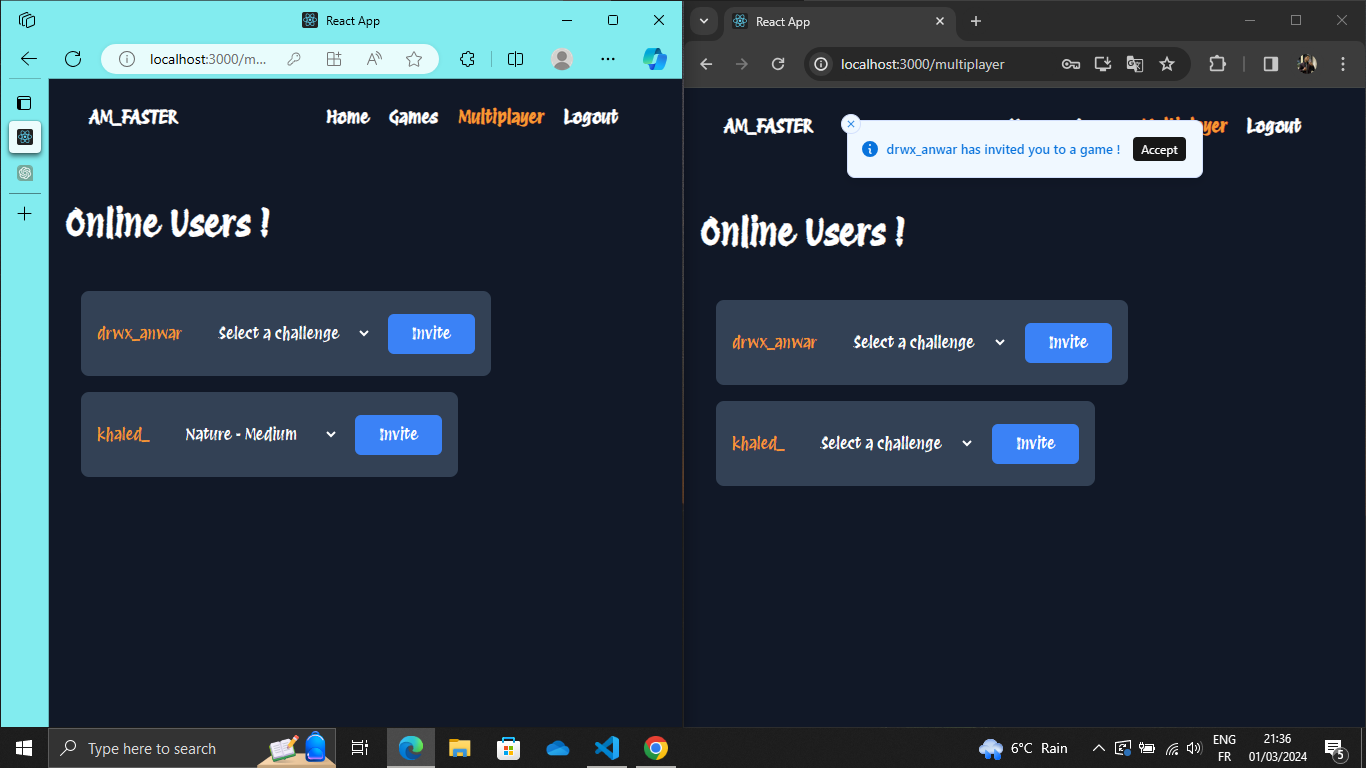
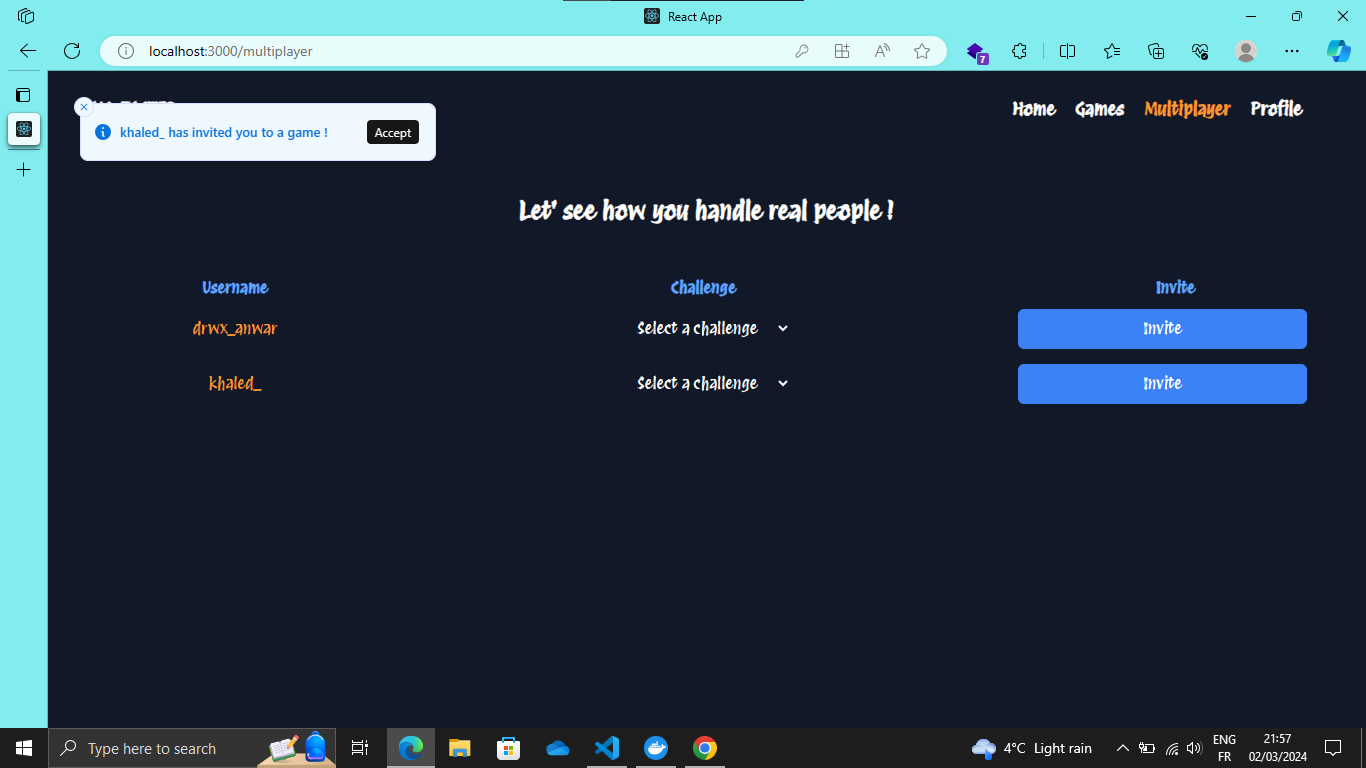
DONE : fixed ready button bug + react app image.

diff --git a/backend/index.js b/backend/index.js
@@ -108,25 +108,34 @@ io.on("connection", (socket) => {
 socket.on("userReady", (gameInfo) => {
   const { username, roomId } = gameInfo;
   const readyUserSocket = socketUsers[username];
-  if (readyUserSocket) { // Check if socket exists for the user
-      console.log("THIS USER IS READY",username)
-      io.to(roomId).emit("onUserIsReady", username); // Emit event 
-      roomReadyStatus[roomId] = roomReadyStatus[roomId] || {}; // Initialize room readiness status if not already initialized
-      roomReadyStatus[roomId][username] = true; // Mark user as ready in the room
-      console.log(`ROOM ${roomId} Ready Users are `,roomReadyStatus[roomId])
-      // Check if both users in the room are ready
-      const usersInRoom = Object.keys(roomReadyStatus[roomId]);
-      const allUsersReady = usersInRoom.every(user => roomReadyStatus[roomId][user]);
-      console.log("ALL USERS ARE READY",allUsersReady)
-      //console.log("THIS USER IS READY",username)
-      if (allUsersReady) {
-          // Emit event to start the game once both users are ready
-          io.in(roomId).emit("startGame");
-          console.log(`STARTING GAME IN THE ROOM ${roomId}`)
-      }
+
+  if (readyUserSocket) {
+    console.log("THIS USER IS READY", username);
+    io.to(roomId).emit("onUserIsReady", username);
+
+    // Initializing room readiness status if not already initialized
+    roomReadyStatus[roomId] = roomReadyStatus[roomId] || {};
+
+    // Marking user as ready in the room
+    roomReadyStatus[roomId][username] = true;
+
+    // Checking if all users in the room are ready
+    const usersInRoom = Object.keys(roomReadyStatus[roomId]);
+    const allUsersReady = usersInRoom.every(user => roomReadyStatus[roomId][user]);
+
+    console.log("ALL USERS ARE READY", allUsersReady);
+
+    if (allUsersReady) {
+      // Emitting event to start the game once all users are ready
+      io.in(roomId).emit("startGame");
+      console.log(`STARTING GAME IN THE ROOM ${roomId}`);
+      
+      // Resetting room readiness status for the next game
+      roomReadyStatus[roomId] = {};
+    }
   } else {
-      console.log(`Socket not found for user: ${username}`);
-      io.to(socket.id).emit("user_not_found")
+    console.log(`Socket not found for user: ${username}`);
+    io.to(socket.id).emit("user_not_found");
   }
 });
 socket.on("gameEnded", async ({challengeId,username, roomId, finishedIn, mistakes }) => {
@@ -158,16 +167,18 @@ socket.on("gameEnded", async ({challengeId,username, roomId, finishedIn, mistake
       if (score1 < score2) {
           winner = user1;
           console.log(`Winner is ${winner} with a score of ${score1} in ${time1}s`);
-          io.in(roomId).emit("winnerAnnouncement", { winner, mistakes: mistakes1, time: time1 });
+          io.to(socketUsers[winner]).emit("winnerAnnouncement", { winner, mistakes: mistakes1, time: time1 });
+          io.to(socketUsers[user2]).emit("Lost", { winner, mistakes: mistakes1, time: time1 });
       } else if (score2 < score1) {
           winner = user2;
           console.log(`Winner is ${winner} with a score of ${score2} in ${time2}s`);
-          io.in(roomId).emit("winnerAnnouncement", { winner, mistakes: mistakes2, time: time2 });
+          io.in(socketUsers[winner]).emit("winnerAnnouncement", { winner, mistakes: mistakes2, time: time2 });
+          io.to(socketUsers[user1]).emit("Lost", { winner, mistakes: mistakes2, time: time2 });
       } else {
           // If scores are equal, consider it as a tie
           winner = null;
           console.log("It's a tie!");
-          io.in(roomId).emit("Tie", {mistakes: mistakes1, time: time1 });
+          io.in(roomId).emit("Tie", {score1});
       }
       //db save game********************
       // try {

diff --git a/frontend/src/pages/Multiplayer.jsx b/frontend/src/pages/Multiplayer.jsx
@@ -36,10 +36,10 @@ function Multiplayer() {
      socket.on("goToGame", (gameInfos)=>{
        //console.log("GO TO GAME INFOS :",gameInfos)
         toast.message(`Joined room : ${gameInfos.roomId}`)
-        //storing usernames
+        //TODO : storing usernames instead of id... for game save later
         handleCreateRoom(gameInfos.senderId,gameInfos.recipientId)
         // go to game page
-        navigate(`room/${gameInfos.roomId}/${gameInfos.challengeId}`)
+        navigate(`/multiplayer/room/${gameInfos.roomId}/${gameInfos.challengeId}`)
      })
      socket.on("user_not_found",()=>{
       toast.info("The user you invited is having network Errors")
@@ -47,11 +47,25 @@ function Multiplayer() {
   }, [socket]);
   
   return <div className="w-full flex items-start justify-start flex-wrap pt-14">
-    <h1 className='text-4xl text-white font-extrabold self-center w-full p-4'>Online Users !</h1>
-    {isPending ? <div className="w-full bg-slate-400 animate-pulse"></div> : <div className="w-full p-8 flex items-start justify-start gap-4 flex-wrap">
-        {online_users ? online_users.map((user,i)=>{
+    <h1 className='text-2xl text-center text-white font-extrabold self-center w-full p-4'>Let&apos; see how you handle real people !</h1>
+    {isPending ? 
+    <div className="w-full bg-slate-400 animate-pulse"></div> 
+        :
+     <div className="w-full p-8 flex items-start justify-start gap-4 flex-wrap">
+        {online_users && online_users.length >= 1
+         ? <table className='w-full'>
+            <thead className='text-blue-400 '>
+              <th>Username</th>
+              <th>Challenge</th>
+              <th>Invite</th>
+            </thead>
+            <tbody>
+            {online_users.map((user,i)=>{
            return <OnlinePlayer challenges={data.challenges} player={user} key={i} />
-        }) : <h1>No user is online</h1>}
+               })}
+            </tbody>
+         </table>
+         : <h1>No user is online</h1>}
     </div>}
   </div>
 }
@@ -72,7 +86,7 @@ export const multiplayerLoader = async () => {
     }
     const data = await response.json()
     //console.log("loader data",data)
-    return data;
+    return data || [];
   } catch (error) {
     console.log(error)
   }

diff --git a/frontend/src/components/Navbar.jsx b/frontend/src/components/Navbar.jsx
@@ -8,31 +8,14 @@ function Navbar() {
   const navigate = useNavigate()
   const socket= useSocket()
   const token = localStorage.getItem("userToken")
-  const logoutHandler = async () => {
-      const response = await fetch("http://localhost:8000/auth/logout",{
-         method : "POST",
-         headers : {
-             "authorization": `Bearer ${token}`,
-             "Content-type" : "application/json"
-         }
-      })
-      if(!response.ok){
-          const errorData = await response.json()
-          console.log(errorData.message)
-          return;
-      }
-      localStorage.removeItem("userToken")
-      handleLogout()
-      socket.disconnect();
-      navigate("/")
-  }
+
   return <nav className="bg-gray-900 font-bold text-white flex items-center justify-between pt-6 px-10">
             <h1 className='text-lg'>AM_FASTER</h1>
             <ul className='flex items-center justify-center text-lg gap-5 text-white px-6'>
             <li><NavLink className={({isActive})=> isActive ? "text-gold" : "text-white"} to="/">Home</NavLink></li>
             <li><NavLink className={({isActive})=> isActive ? "text-gold" : "text-white"} to="/challenges">Games</NavLink></li>
             <li><NavLink className={({isActive})=> isActive ? "text-gold" : "text-white"}  to="/multiplayer">Multiplayer</NavLink></li>
-            {(loggedIn || token ) ?<li className='cursor-pointer' onClick={logoutHandler}>Logout</li> : <li><NavLink className={({isActive})=> isActive ? "text-gold" : "text-white"} to="/account">Account</NavLink></li>}
+            <li><NavLink className={({isActive})=> isActive ? "text-gold" : "text-white"} to={(loggedIn || token ) ? "/account/profile" : "/account"}>{(loggedIn || token ) ? "Profile" : "Login/Register"}</NavLink></li>
       </ul>
   </nav>
 }

diff --git a/frontend/src/pages/Profile.jsx b/frontend/src/pages/Profile.jsx
@@ -1,13 +1,39 @@
-import { useLoaderData } from "react-router-dom"
+import { useLoaderData, useNavigate } from "react-router-dom"
 import UserPlayedGames from "../components/UserPlayedGames"
 import UserPlayedGame from "../components/UserPlayedGame"
 import OnlinePlayedGames from "../components/OnlinePlayedGames"
 import OnlinePlayedGame from "../components/OnlinePlayedGame"
+import { useSocket } from "../store/SocketContextProvider"
+import { useContext } from "react"
+import { contextUI } from "../store/contextUI"
 
 function Profile() {
+  const socket = useSocket()
+  const {handleLogout} = useContext(contextUI)
+  const navigate = useNavigate()
   const {played_games} = useLoaderData()
+  const token = localStorage.getItem("userToken")
+  const logoutHandler = async () => {
+    const response = await fetch("http://localhost:8000/auth/logout",{
+       method : "POST",
+       headers : {
+           "authorization": `Bearer ${token}`,
+           "Content-type" : "application/json"
+       }
+    })
+    if(!response.ok){
+        const errorData = await response.json()
+        console.log(errorData.message)
+        return;
+    }
+    localStorage.removeItem("userToken")
+    handleLogout()
+    socket.disconnect();
+    navigate("/")
+}
   return (
-    <div className="w-full h-screen px-8 pt-14 flex flex-wrap items-center justify-start gap-4 ">
+    <div className=" relative w-full h-screen px-8 pt-14 flex flex-wrap items-center justify-start gap-4 ">
+         <button className="absolute top-14 right-32 text-white bg-orange-400 rounded-md px-6 " onClick={logoutHandler}>Log Out</button>
         <div className="w-full">
             <h1  className="text-xl text-white pl-8">User INFOS AND SETTINGS to fetch</h1>
         </div>

diff --git a/frontend/src/components/OnlinePlayer.jsx b/frontend/src/components/OnlinePlayer.jsx
@@ -17,16 +17,20 @@ function OnlinePlayer({challenges,player}) {
       senderId : 1
     }))
   }
-  return <div className='flex items-center justify-evenly gap-4 bg-slate-700 rounded-lg p-4'>
-        <h4 className='text-gold'>{player.username}</h4>
+  return <tr className=''>
+        <td className='text-gold text-center'>{player.username}</td>
+        <td className='grid place-items-center'>
         <select ref={challengeRef} className='bg-transparent outline-none border-none text-white p-4' name="" id="">
            <option value="">Select a challenge</option>
            {challenges.map((challenge)=>(
               <option className='bg-black text-white' key={challenge.id} value={challenge.id}>{challenge.category} - {challenge.difficulty}</option>
            ))}
         </select>
-        <button className='px-6 py-2 bg-blue-500 rounded-md gont-bold text-white' onClick={handleInvite}>Invite</button>
-  </div>
+        </td>
+        <td className=''>
+        <button className=' w-11/12 px-6 py-2 bg-blue-500 rounded-md gont-bold text-white' onClick={handleInvite}>Invite</button>
+        </td>
+  </tr>
   
 }
 

diff --git a/frontend/src/components/RoomGame.jsx b/frontend/src/components/RoomGame.jsx
@@ -94,9 +94,15 @@ function RoomGame({autoStart,roomId,username,id,text,category,difficulty}) {
       })
         //toast.success(`Congratulation ${winner} You WON ! `);
     })
-    socket.on("Tie",({time,mistakes})=>{
+    socket.on("Lost",({winner,time,mistakes})=>{
+      toast.message("YOU LOST :/ , TRAIN HARDER IN SOLO  ",{
+        description : `${winner} : finished in ${formatTime(time)} and ${mistakes} mistakes`
+      })
+    })
+    socket.on("Tie",({score})=>{
       toast.message(`IT'S A TIEE !`, {
-        description: `You finished in ${formatTime(time)} with ${mistakes} mistakes`,
+        // TODO :  next i'll send the score not stats
+        description: `Both of You had the same score !`,
       })
     })
   }, [socket,autoStart]);

diff --git a/frontend/src/components/Modal.jsx b/frontend/src/components/Modal.jsx
@@ -63,7 +63,7 @@ const Modal = forwardRef(({ online , message ,mistakes, challenge_id, time}, ref
               // TODO : add a play again feature for online mode also !
             }
             {!online && <button className="self-center bg-gold text-white px-8 py-2 rounded-lg" onClick={handleCloseModal}>Try Again</button>}
-            {token && <button className="self-center bg-blue-800 text-white px-8 py-2 rounded-lg" onClick={handleSaveScore}>Save Score</button>}            
+            {!online && token && <button className="self-center bg-blue-800 text-white px-8 py-2 rounded-lg" onClick={handleSaveScore}>Save Score</button>}            
             </div>
           </div>
         </>

diff --git a/backend/routes/users.js b/backend/routes/users.js
@@ -15,7 +15,7 @@ router.get("/online", async (req, res) => {
         const onlineUsersResult = await pool.query(onlineUsersQuery);
         //console.log(online_users)
         if(onlineUsersResult.rows.length < 1){
-            return res.status(400).send({message : "No online Users at the moment ! "})
+            return res.status(200).send({online_users : [] , message : "No online Users at the moment ! "})
         }
         const onlineUsers = onlineUsersResult.rows;
         return  res.status(200).send({

diff --git a/frontend/src/index.js b/frontend/src/index.js
@@ -13,7 +13,7 @@ root.render(
     <SocketContextProvider>
     <App />
     </SocketContextProvider>
-    <Toaster position="top-center" expand={false} closeButton duration={5000} richColors />
+    <Toaster position="top-left" expand={false} closeButton duration={5000} richColors />
   </QueryClientProvider>
 );
 
